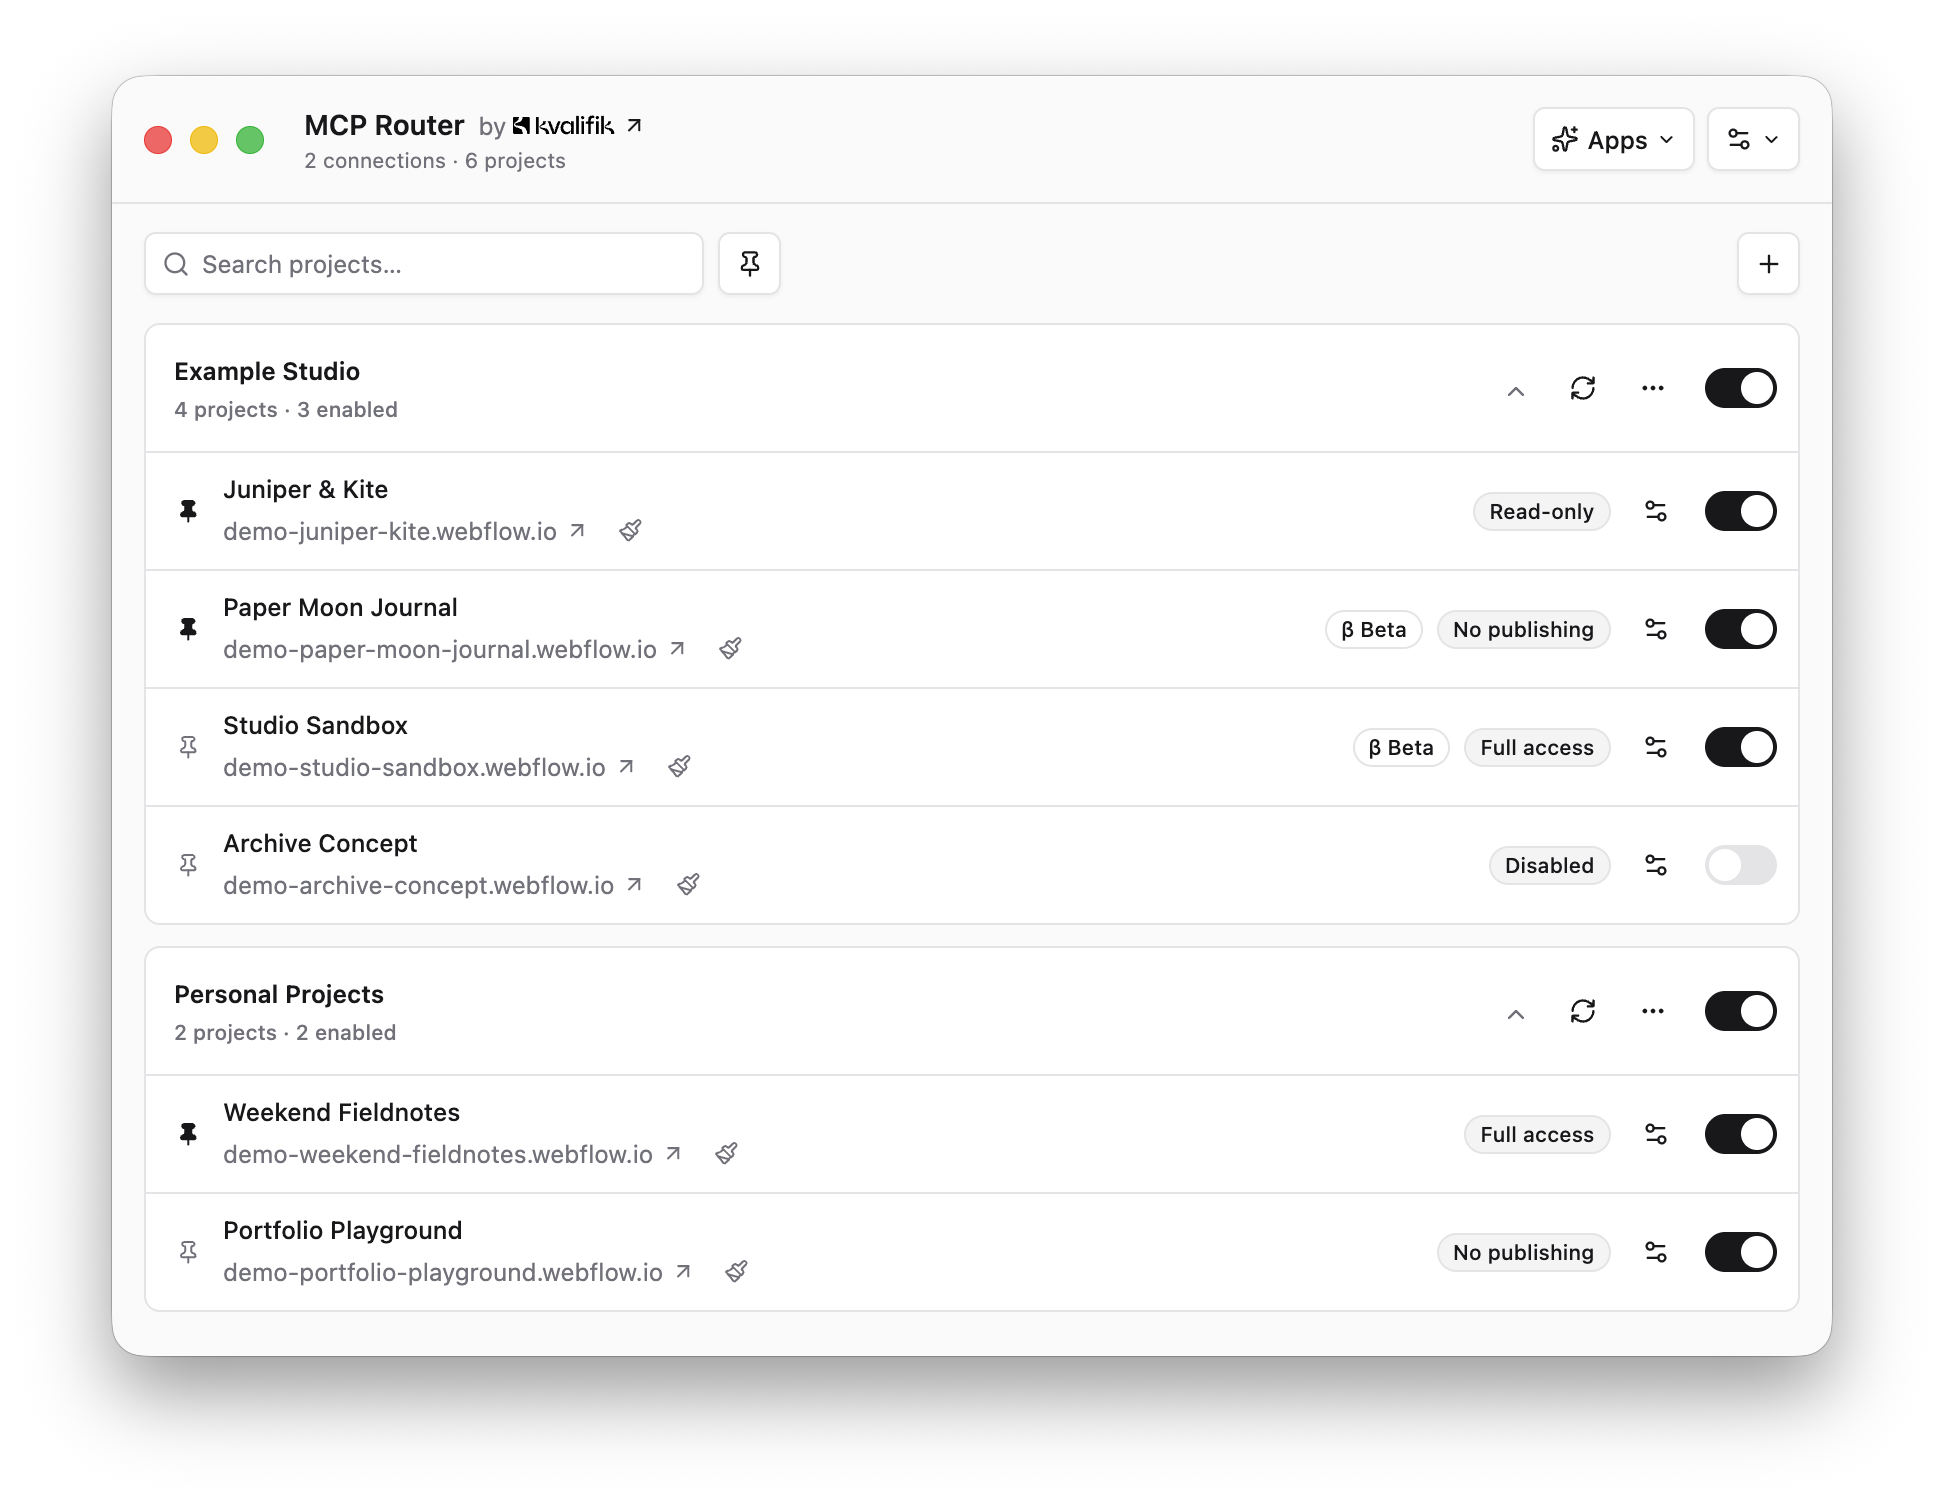
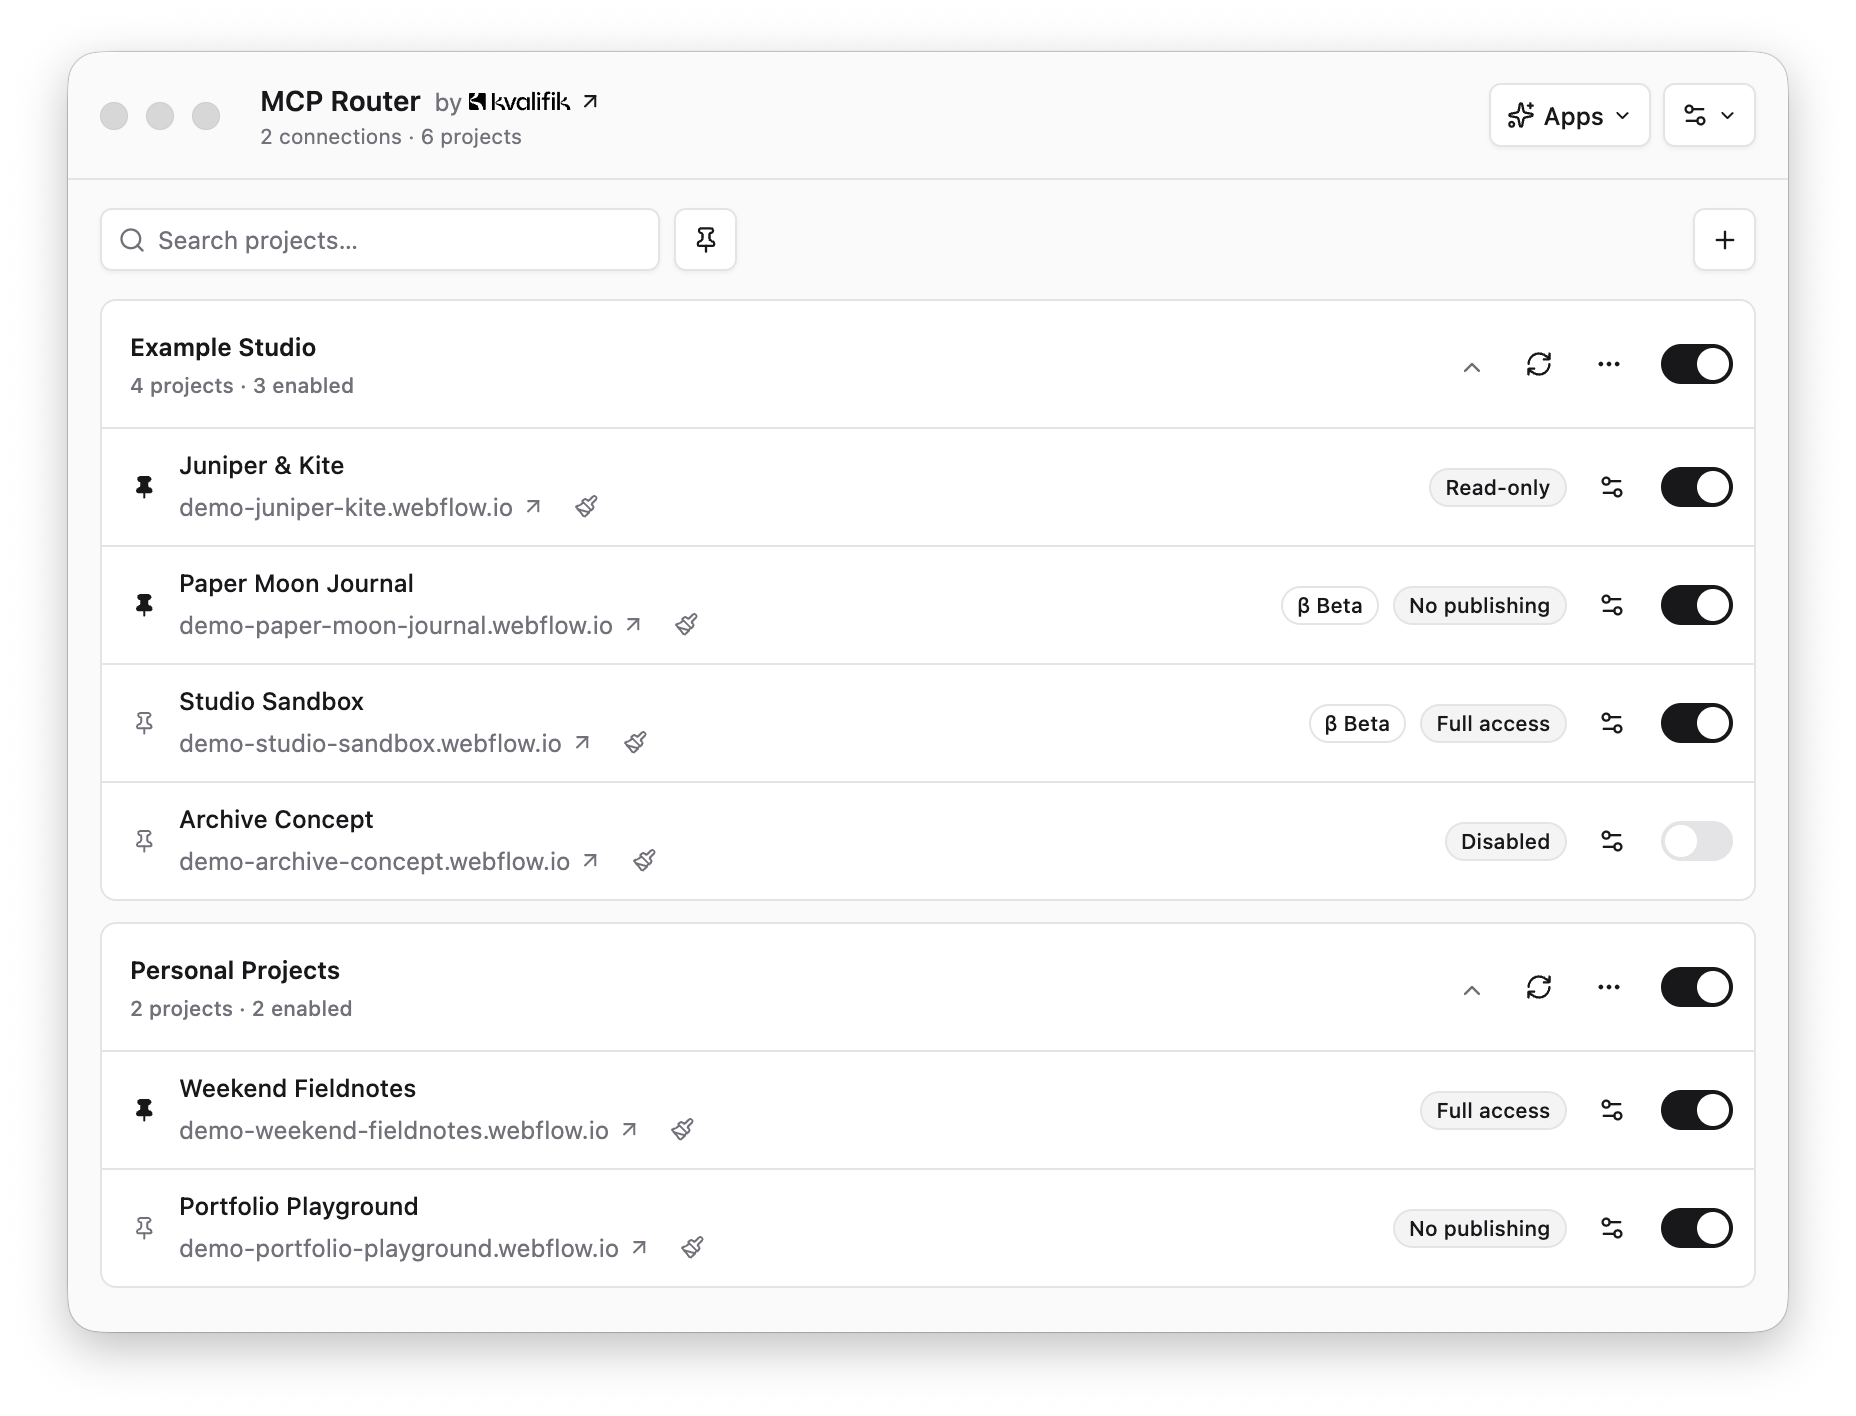
Animate project reordering; release 0.8.2 (#8)

diff --git a/ui/main.jsx b/ui/main.jsx
@@ -21,6 +21,50 @@ import { permissionUnavailable, availablePreset, connectionTestUnavailable } fro
 import appPackage from '../package.json';
 import kvalifikLogo from '../assets/brand/kvalifik.svg';
 
+// Measure before React moves keyed rows, then animate from their previous positions.
+class AnimatedProjectList extends React.Component {
+  list = React.createRef();
+  animations = [];
+
+  stopAnimations = () => {
+    this.animations.forEach(animation => animation.cancel());
+    this.animations = [];
+  };
+
+  getSnapshotBeforeUpdate(previous) {
+    const before = previous.ids;
+    const after = this.props.ids;
+    if (before.length !== after.length || before.some(id => !after.includes(id)) ||
+        before.every((id, index) => id === after[index])) return null;
+    return new Map(Array.from(this.list.current.children, row =>
+      [row.dataset.projectId, row.getBoundingClientRect().top]));
+  }
+
+  componentDidUpdate(previous, state, positions) {
+    if (!positions) {
+      if (previous.ids.length !== this.props.ids.length ||
+          previous.ids.some(id => !this.props.ids.includes(id))) this.stopAnimations();
+      return;
+    }
+    this.stopAnimations();
+    if (window.matchMedia('(prefers-reduced-motion: reduce)').matches) return;
+    const moves = Array.from(this.list.current.children, row => ({
+      row, delta: positions.get(row.dataset.projectId) - row.getBoundingClientRect().top,
+    }));
+    this.animations = moves.filter(({ delta }) => Number.isFinite(delta) && Math.abs(delta) > 1)
+      .map(({ row, delta }) => row.animate([
+        { transform: `translateY(${delta}px)` },
+        { transform: 'translateY(0)' },
+      ], { duration: 320, easing: 'cubic-bezier(0.2, 0, 0, 1)' }));
+  }
+
+  componentWillUnmount() { this.stopAnimations(); }
+
+  render() {
+    return <div ref={this.list} aria-label={this.props.label} className="project-list border-t">{this.props.children}</div>;
+  }
+}
+
 function PublisherLink({ className = '', large = false, children }) {
   return <a href="https://kvalifik.dk" target="_blank" rel="noopener noreferrer" className={`inline-flex items-center gap-1 rounded-sm underline-offset-4 hover:underline focus-visible:outline-none focus-visible:ring-2 focus-visible:ring-ring ${className}`} onClick={async event => {
     if (!window.routerDesktop) return;
@@ -358,13 +402,13 @@ function App() {
             <Switch className="ml-2" aria-label={`Enable ${c.name}`} checked={c.enabled} disabled={busy} onCheckedChange={enabled=>action(()=>perform(`/api/connections/${c.id}/toggle`,{enabled}))} />
           </div>
         </div>
-        <AccordionContent className="pb-0"><div aria-label={`${c.name} projects`} className="project-list border-t">
+        <AccordionContent className="pb-0"><AnimatedProjectList label={`${c.name} projects`} ids={c.visible.map(p=>p.id)}>
           {!c.visible.length&&<p className="p-5 text-sm text-muted-foreground">{c.tokenFingerprint?'Sync this connection to discover projects.':'Connect with OAuth to discover projects.'}</p>}
-          {c.visible.map(p=><div key={p.id} className="project-row flex items-center gap-2 pl-8 pr-3 py-2.5"><Button variant="ghost" size="icon-xs" className={`-ml-5 shrink-0 ${p.favourite?'text-foreground':'text-muted-foreground'}`} aria-pressed={!!p.favourite} aria-label={`${p.favourite?'Unpin':'Pin'} ${p.name}`} disabled={busy} onClick={()=>action(()=>perform(`/api/projects/${p.id}/edit`,{favourite:!p.favourite}))}><Pin className={`size-3.5 ${p.favourite?'fill-current':''}`} /></Button><div className="project-name mr-auto min-w-0"><div className="project-title flex min-w-0 items-center gap-1"><h3 className="truncate text-sm font-medium" title={p.name}>{p.name}</h3><ProjectLinks project={p} /></div><div className="project-badges flex items-center gap-2">{(p.channel&&p.channel!=='inherit'?p.channel:c.channel)==='beta'&&<BetaBadge project={p} connection={c} onClick={()=>setModal({type:'permissions',item:p})} />}<AccessBadge project={p} connection={c} permissionKeys={permissionKeys} onClick={()=>setModal({type:'permissions',item:p})} /></div></div><div className="project-controls flex shrink-0 items-center gap-0.5">
+          {c.visible.map(p=><div key={p.id} data-project-id={p.id} className="project-row flex items-center gap-2 pl-8 pr-3 py-2.5"><Button variant="ghost" size="icon-xs" className={`-ml-5 shrink-0 ${p.favourite?'text-foreground':'text-muted-foreground'}`} aria-pressed={!!p.favourite} aria-label={`${p.favourite?'Unpin':'Pin'} ${p.name}`} disabled={busy} onClick={()=>action(()=>perform(`/api/projects/${p.id}/edit`,{favourite:!p.favourite}))}><Pin className={`size-3.5 ${p.favourite?'fill-current':''}`} /></Button><div className="project-name mr-auto min-w-0"><div className="project-title flex min-w-0 items-center gap-1"><h3 className="truncate text-sm font-medium" title={p.name}>{p.name}</h3><ProjectLinks project={p} /></div><div className="project-badges flex items-center gap-2">{(p.channel&&p.channel!=='inherit'?p.channel:c.channel)==='beta'&&<BetaBadge project={p} connection={c} onClick={()=>setModal({type:'permissions',item:p})} />}<AccessBadge project={p} connection={c} permissionKeys={permissionKeys} onClick={()=>setModal({type:'permissions',item:p})} /></div></div><div className="project-controls flex shrink-0 items-center gap-0.5">
             <IconButton label={`Settings for ${p.name}`} icon={Settings2} disabled={busy} onClick={()=>setModal({type:'permissions',item:p})} />
             <Switch className="ml-2" aria-label={`Enable ${p.name}`} checked={p.enabled} disabled={busy||!c.enabled||p.available===false} onCheckedChange={enabled=>action(()=>perform(`/api/projects/${p.id}/edit`,{enabled}))} />
           </div></div>)}
-        </div></AccordionContent>
+        </AnimatedProjectList></AccordionContent>
       </AccordionItem>;})}
     </Accordion>
     <Dialog open={!!modal} onOpenChange={open=>{if(!open&&!busy)void closeModal();}}><DialogContent onInteractOutside={event=>{if(event.target.closest('[data-sonner-toaster]'))event.preventDefault();}} onOpenAutoFocus={event=>{if(['permissions','rename'].includes(modal?.type)){event.preventDefault();event.target.focus();}}} className={`dialog-shell ${['permissions','defaults'].includes(modal?.type)?'permission-dialog sm:max-w-2xl':'sm:max-w-lg'}`}>{modal?.type!=='permissions'&&<DialogHeader className="shrink-0 pr-6 text-left"><DialogTitle>{modal?.initialNaming?'Name your connection':modal&&titles[modal.type]}</DialogTitle><DialogDescription className={['permissions','about'].includes(modal?.type)?'sr-only':undefined}>{modal?.initialNaming?'Webflow is connected. What would you like to call this connection?':modal?.type==='connect'?'Choose access in Webflow, then limit AI access here.':modal?.type==='permissions'?'Edit the project name and permissions.':modal?.type==='about'?'Application information and third-party licenses.':modal?.type==='defaults'?'Starting permissions for automatically discovered projects.':modal?.type==='delete'?`Remove ${modal.item.name} from this router?`:modal?.type==='channel'?'Review Stable and β Beta access and reconnect either version.':modal?.type==='order'?'Drag connections or use the arrows to change their order.':modal?.type==='diagnostics'?'Connection checks and recent activity.':'Change the local display name.'}</DialogDescription></DialogHeader>}

diff --git a/docs/USAGE.md b/docs/USAGE.md
@@ -45,6 +45,8 @@ disabled. Failed requests retain the previous inventory.
 Pinned projects appear first within each connection, in alphabetical order. Turning
 a pinned project on or off does not change its position. Unpinned projects appear
 below them, with enabled projects first, then alphabetically within each group.
+Projects slide into their new positions when this order changes, making toggles
+and pinning easier to follow. The animation respects reduced-motion preferences.
 
 ## Project permissions
 

diff --git a/CHANGELOG.md b/CHANGELOG.md
@@ -1,5 +1,10 @@
 # Changelog
 
+## 0.8.2 — Animated project ordering
+
+- Animate projects sliding into place when enabling, disabling, pinning, or renaming changes their order.
+- Respect reduced-motion preferences and preserve the existing project sorting rules.
+
 ## 0.8.1 — Reconnect disabled connections
 
 - Allow Stable and Beta authorization and reconnection while a connection is turned off.
